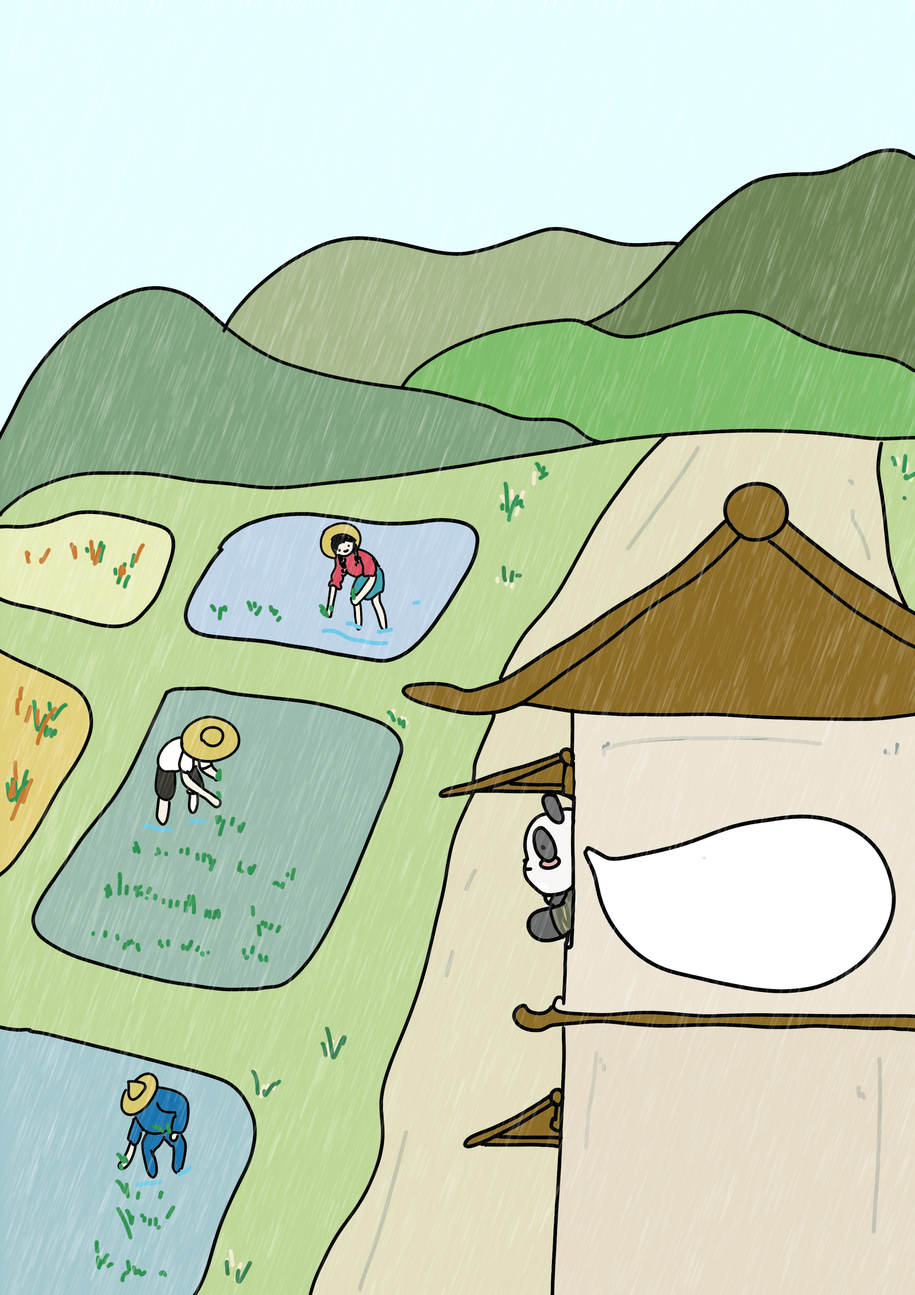
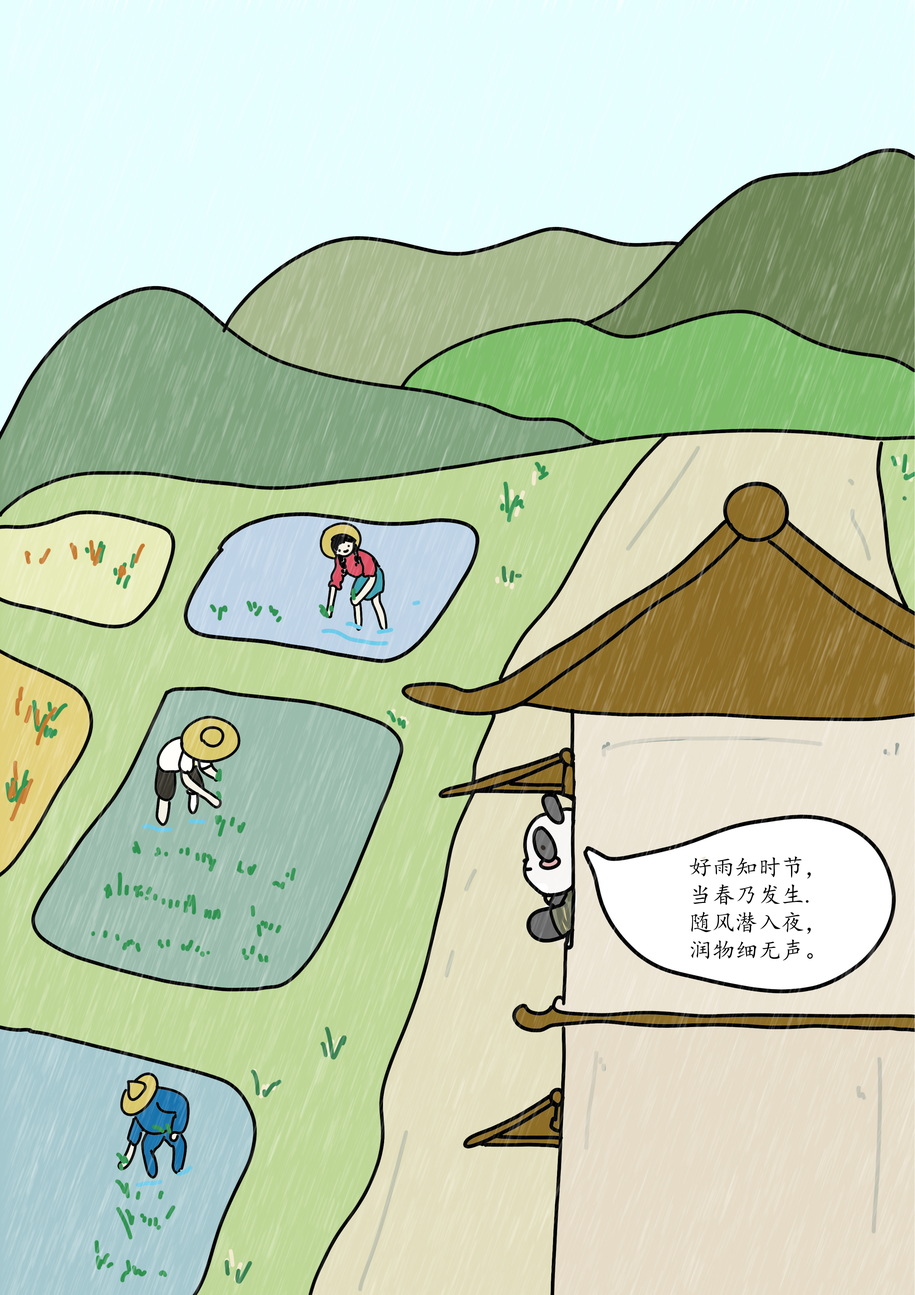
修改book1内容；修改tooltip文字大小

Changed region(s): [[0.7452, 0.6527, 0.8694, 0.7459]]

diff --git a/src/views/books/book1/Page5View.vue b/src/views/books/book1/Page5View.vue
@@ -6,23 +6,57 @@
   <div>
     <el-row>
       <el-col :span="12">
-        <el-image :src="require('@/assets/images/book1/5.jpg')" fit="contain" />
+        <el-image :src="require('@/assets/images/book1/5.jpg')" fit="contain"/>
       </el-col>
       <el-col :span="12">
         <div class="content">
-          <p class="chsText">
-            江南春·千里莺啼绿映红<br/>
-            【唐】 杜牧<br/>
-            千里莺啼绿映红，水村山郭酒旗风。<br/>
-            南朝四百八十寺，多少楼台烟雨中。<br/>
+
+          <p class="chsPara">
+            岁岁披上斗篷蓑衣，走在雨中，它正准备要去田边山间采摘一些春天的食物。春雨过后，岁岁最最最喜欢
+            <el-tooltip placement="bottom">
+              <template #content><p class="tip">
+                春笋(Fresh bamboo shoots )<br/>
+                Fresh bamboo shoots are panda’s staple diet. They push through after the spring rain.
+              </p></template>
+              <strong>春笋</strong>
+            </el-tooltip>
+            都探出头来。想到这里，岁岁忍不住擦了擦口水。除此之外，还有吃完唇齿留香的马兰头、绿叶红边、香味浓郁的香椿和
+            <el-tooltip placement="bottom">
+              <template #content><p class="tip">
+                田艾籺（Partaking of Tian Ai Qi with Polished Glutinous Rice and Affine Cudweed in Guandong Style）<br/>
+                “Tian Ai Qi” is a common seasonal food and a snack with glutinous rice flour as the crust and filling,
+                which can be mixed according to personal taste, both salty and sweet. At the beginning of spring, when
+                everything is reviving and the grass is growing, it is the heyday of “Tian Ai Qi” growth in the spring
+                fields.
+              </p></template>
+              <strong>田艾籺</strong>
+            </el-tooltip>
+            。书上说，
+            <el-tooltip placement="bottom">
+              <template #content><p class="tip">
+                According to the "Food Materia Medica", it is effective in dispelling dampness, warming the stomach and
+                cleansing the intestines. It is also used as a seasonal tribute for worshipping the gods and praying for
+                good weather and rain.
+              </p></template>
+              <strong>田艾籺它有祛湿、清热胃、清肠的功效呢</strong>
+            </el-tooltip>
+            。
           </p>
-          <p class="engText">
-            Spring on the Southern River shore | By Du Mu<br/>
-            Orioles sing for miles amid red blooms and green trees<br/>
-            By hills and rills wine shop streamers wave in the breeze.<br/>
-            Four Hundred eighty splendid temples still remain<br/>
-            Of Southern Dynasties in the mist and rain.<br/>
-          </p>
+          <!--
+                    <p class="chsText">
+                      江南春·千里莺啼绿映红<br/>
+                      【唐】 杜牧<br/>
+                      千里莺啼绿映红，水村山郭酒旗风。<br/>
+                      南朝四百八十寺，多少楼台烟雨中。<br/>
+                    </p>
+                    <p class="engText">
+                      Spring on the Southern River shore | By Du Mu<br/>
+                      Orioles sing for miles amid red blooms and green trees<br/>
+                      By hills and rills wine shop streamers wave in the breeze.<br/>
+                      Four Hundred eighty splendid temples still remain<br/>
+                      Of Southern Dynasties in the mist and rain.<br/>
+                    </p>
+          -->
         </div>
       </el-col>
     </el-row>

diff --git a/src/views/books/book1/Page6View.vue b/src/views/books/book1/Page6View.vue
@@ -10,32 +10,9 @@
       </el-col>
       <el-col :span="12">
         <div class="content">
-        <p class="chsPara">
-          岁岁披上斗篷蓑衣，走在雨中，它正准备要去田边山间采摘一些春天的食物。春雨过后，岁岁最最最喜欢
-          <el-tooltip placement="bottom">
-            <template #content><p class="tip">
-              春笋(Fresh bamboo shoots )<br/>
-              Fresh bamboo shoots are panda’s staple diet. They push through after the spring rain.
-            </p></template>
-            <strong>春笋</strong>
-          </el-tooltip>
-          都探出头来。想到这里，岁岁忍不住擦了擦口水。除此之外，还有吃完唇齿留香的马兰头、绿叶红边、香味浓郁的香椿和
-          <el-tooltip placement="bottom">
-            <template #content><p class="tip">
-            田艾籺（Partaking of Tian Ai Qi with Polished Glutinous Rice and Affine Cudweed in Guandong Style）<br/>
-            “Tian Ai Qi” is a common seasonal food and a snack with glutinous rice flour as the crust and filling, which can be mixed according to personal taste, both salty and sweet. At the beginning of spring, when everything is reviving and the grass is growing, it is the heyday of “Tian Ai Qi” growth in the spring fields.
-            </p></template>
-            <strong>田艾籺</strong>
-          </el-tooltip>
-          。书上说，
-          <el-tooltip placement="bottom">
-            <template #content><p class="tip">
-              According to the "Food Materia Medica", it is effective in dispelling dampness, warming the stomach and cleansing the intestines. It is also used as a seasonal tribute for worshipping the gods and praying for good weather and rain.
-            </p></template>
-            <strong>田艾籺它有祛湿、清热胃、清肠的功效呢</strong>
-          </el-tooltip>
-          。
-        </p>
+          <p class="chsPara">
+            路上岁岁碰到了住在村头的姐姐带着瓶瓶罐罐，川西这一带的姑娘都会在这天回娘家探望父母。村里人还有独特的爆炸谷米花的手艺，据说爆出的爆米花越多、成色越好，意味着今年的收成就会越好。
+          </p>
         </div>
       </el-col>
     </el-row>

diff --git a/src/views/books/book1/Page4View.vue b/src/views/books/book1/Page4View.vue
@@ -11,31 +11,32 @@
       <el-col :span="12">
         <div class="content">
           <p class="chsPara">
+            <el-tooltip placement="bottom">
+              <template #content><p class="tip">雨水（Rain Water）</p></template>
+              <strong>雨水</strong>
+            </el-tooltip>
+            来了。
+            <el-tooltip placement="bottom">
+              <template #content><p class="tip">
+                  Happy Rain on a spring Night | By Du Fu<br/>
+                  Good rainknows its time right,<br/>
+                  It will fall when comes sping.<br/>
+                  With windit steals in night;<br/>
+                  Mute, itwets everything.<br/>
+                  Over wildlanes dark cloud spreads;<br/>
+                  In boat alantern looms.<br/>
+                  Dawn seessaturated reds;<br/>
+                  The townsheavy with blooms.<br/>
+              </p></template>
+              <strong>“好雨知时节，当春乃发生。随风潜入夜，润物细无声。”（《春夜喜雨》——【唐】杜甫）
+              </strong>
+            </el-tooltip>
             岁岁口中念念有词，看着窗外连绵不断的细雨，知道这
             <el-tooltip placement="bottom">
               <template #content><p class="tip">雨水（Rain Water）</p></template>
               <strong>雨水</strong>
             </el-tooltip>
             的珍贵。农民伯伯都在忙碌着备耕、备种，这是新的一年希望的种子。
-          </p>
-          <p class="chsText">
-            春夜喜雨<br/>
-            【唐】杜甫<br/>
-            好雨知时节，<br/>
-            当春乃发生。<br/>
-            随风潜入夜，<br/>
-            润物细无声。<br/>
-          </p>
-          <p class="engText">
-            Happy Rain on a spring Night | By Du Fu<br/>
-            Good rainknows its time right,<br/>
-            It will fall when comes sping.<br/>
-            With windit steals in night;<br/>
-            Mute, itwets everything.<br/>
-            Over wildlanes dark cloud spreads;<br/>
-            In boat alantern looms.<br/>
-            Dawn seessaturated reds;<br/>
-            The townsheavy with blooms.<br/>
           </p>
         </div>
       </el-col>

diff --git a/src/views/books/book1/Page7View.vue b/src/views/books/book1/Page7View.vue
@@ -6,10 +6,11 @@
   <div>
     <el-row>
       <el-col :span="12">
-        <el-image :src="require('@/assets/images/book1/8.jpg')" fit="contain" />
+        <el-image :src="require('@/assets/images/book1/7.jpg')" fit="contain" />
       </el-col>
       <el-col :span="12">
         <div class="content">
+
           <p class="chsPara">
             雨打立春节，
             <el-tooltip placement="bottom">
@@ -23,6 +24,16 @@
           </p>
           <p class="engPara">
             Thunder made the Spring Festival, the rain did not stop the awakening of insects.
+          </p>
+          <p class="chsPara">
+            听，轰隆隆———岁岁正昏昏欲睡地靠窗休息，忽然被这惊雷吓得原地起立。这雷声传说中是由雷神，一手持鼓，一手拿锤，
+            <el-tooltip placement="bottom">
+              <template #content><p class="tip">
+                Awakening of Insects mean spring’s move, awakened dormant in the soil hivernating animals.
+              </p></template>
+              <strong>跟上时间的节奏唤醒春困的人们和冬眠的昆虫</strong>
+            </el-tooltip>
+            。
           </p>
         </div>
       </el-col>

diff --git a/src/views/books/book1/Page8View.vue b/src/views/books/book1/Page8View.vue
@@ -6,19 +6,12 @@
   <div>
     <el-row>
       <el-col :span="12">
-        <el-image :src="require('@/assets/images/book1/7.jpg')" fit="contain" />
+        <el-image :src="require('@/assets/images/book1/8.jpg')" fit="contain" />
       </el-col>
       <el-col :span="12">
         <div class="content">
           <p class="chsPara">
-            听，轰隆隆———岁岁正昏昏欲睡地靠窗休息，忽然被这惊雷吓得原地起立。这雷声传说中是由雷神，一手持鼓，一手拿锤，
-            <el-tooltip placement="bottom">
-              <template #content><p class="tip">
-                Awakening of Insects mean spring’s move, awakened dormant in the soil hivernating animals.
-              </p></template>
-              <strong>跟上时间的节奏唤醒春困的人们和冬眠的昆虫</strong>
-            </el-tooltip>
-            。
+            人间这时，也会开始蒙鼓皮、打小人，用艾草香薰驱赶蚊虫蛇鼠，赶走霉运。
           </p>
         </div>
       </el-col>

diff --git a/src/views/books/book1/Page2View.vue b/src/views/books/book1/Page2View.vue
@@ -10,10 +10,8 @@
       </el-col>
       <el-col :span="12">
         <div class="content">
-          <p class="engPara">
-            At the “Beginning of Spring”, the aura of early spring can be clearly felt in China's Tropic of Cancer and the
-            area south of it. In the nature, the most distinctive feature for “Beginning of Spring”is that everything begins
-            to recover and becomes full of vigor. Also, the daytime becomes longer and the weather gets warmers.
+          <p class="chsPara">
+            岁岁被一阵敲门声唤醒，打开门，是隔壁的邻居，他的手上拿着一副春牛图和一只泥土捏成的小春牛。原来是春耕的时候到了，邻居在挨家挨户上门拜访，向左邻右舍送上春耕祝福的话语。
           </p>
         </div>
       </el-col>

diff --git a/src/views/books/book1/Page1View.vue b/src/views/books/book1/Page1View.vue
@@ -19,6 +19,14 @@
             </el-tooltip>
             到了，这一天春回大地、万物复苏。温暖的东风徐徐吹来，冰河消融，草木初生，气温逐渐回暖。
           </p>
+          <p class="chsPara">
+            蛰伏一个冬天的小动物们逐渐苏醒，伸伸懒腰，开始寻找食物。
+          </p>
+          <p class="engPara">
+            At the “Beginning of Spring”, the aura of early spring can be clearly felt in China's Tropic of Cancer and the
+            area south of it. In the nature, the most distinctive feature for “Beginning of Spring”is that everything begins
+            to recover and becomes full of vigor. Also, the daytime becomes longer and the weather gets warmers.
+          </p>
         </div>
       </el-col>
     </el-row>

diff --git a/src/views/books/book1/Page9View.vue b/src/views/books/book1/Page9View.vue
@@ -18,9 +18,7 @@
               </p></template>
               <strong>吃梨</strong>
             </el-tooltip>
-            ，因为生梨性寒味甘，吃起来清热润肺；而吃醪
-            糟、芥末，则是要趁着天暖，一口气除掉身体内积存的寒气。
-            的珍贵。农民伯伯都在忙碌着备耕、备种，这是新的一年希望的种子。
+            ，因为生梨性寒味甘，吃起来清热润肺；而吃醪糟、芥末，则是要趁着天暖，一口气除掉身体内积存的寒气。
           </p>
         </div>
       </el-col>

diff --git a/src/styles/page.css b/src/styles/page.css
@@ -31,7 +31,7 @@
 .tip {
     max-width: 400px;
     text-align: left;
-    font-size: 12px;
+    font-size: 16px;
     font-family: 'MV Boli', 'Microsoft YaHei', '微软雅黑', Arial, sans-serif;
     padding: 10px;
 }
